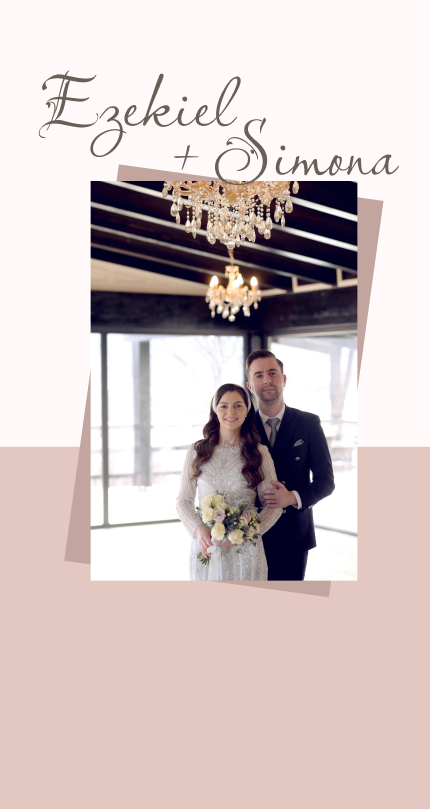
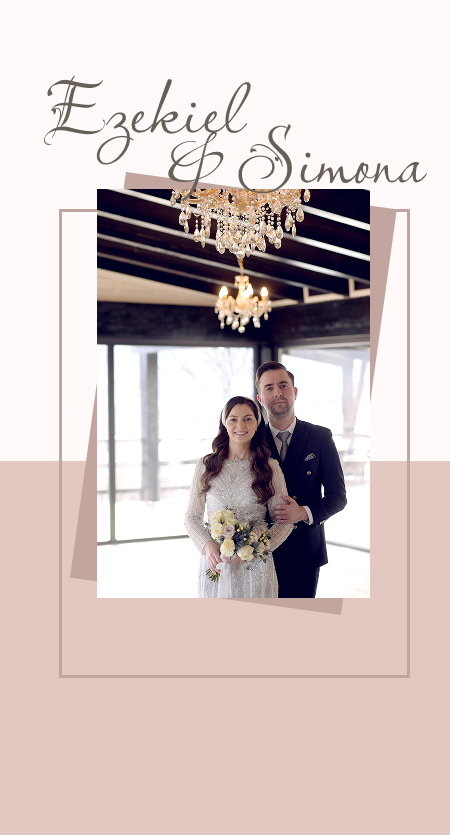
Updated with high quality backgrounds

diff --git a/src/app/components/Hero.tsx b/src/app/components/Hero.tsx
@@ -35,7 +35,7 @@ export const Hero = () => {
         return () => clearInterval(timer);
     }, []);
 
-    const backgroundImage = mobileScreen ? 'backgroundmobile.png' : 'background5.png';
+    const backgroundImage = mobileScreen ? 'backgroundmobile.png' : 'backgrounddesktop.png';
     const justifyContent = mobileScreen ? 'start' : 'center';
 
     return (
@@ -52,7 +52,7 @@ export const Hero = () => {
                             Ezekiel & Simona
                         </Title> */}
 
-                        <Flex gap={largeScreen ? 'xl' : mediumScreen ? 'lg' : 'md'} align="center" mt="auto" mb="8rem">
+                        <Flex gap={largeScreen ? 'xl' : mediumScreen ? 'lg' : 'md'} align="center" mt="auto" mb="10rem">
                             <Box ta="center">
                                 <Text
                                     style={{
